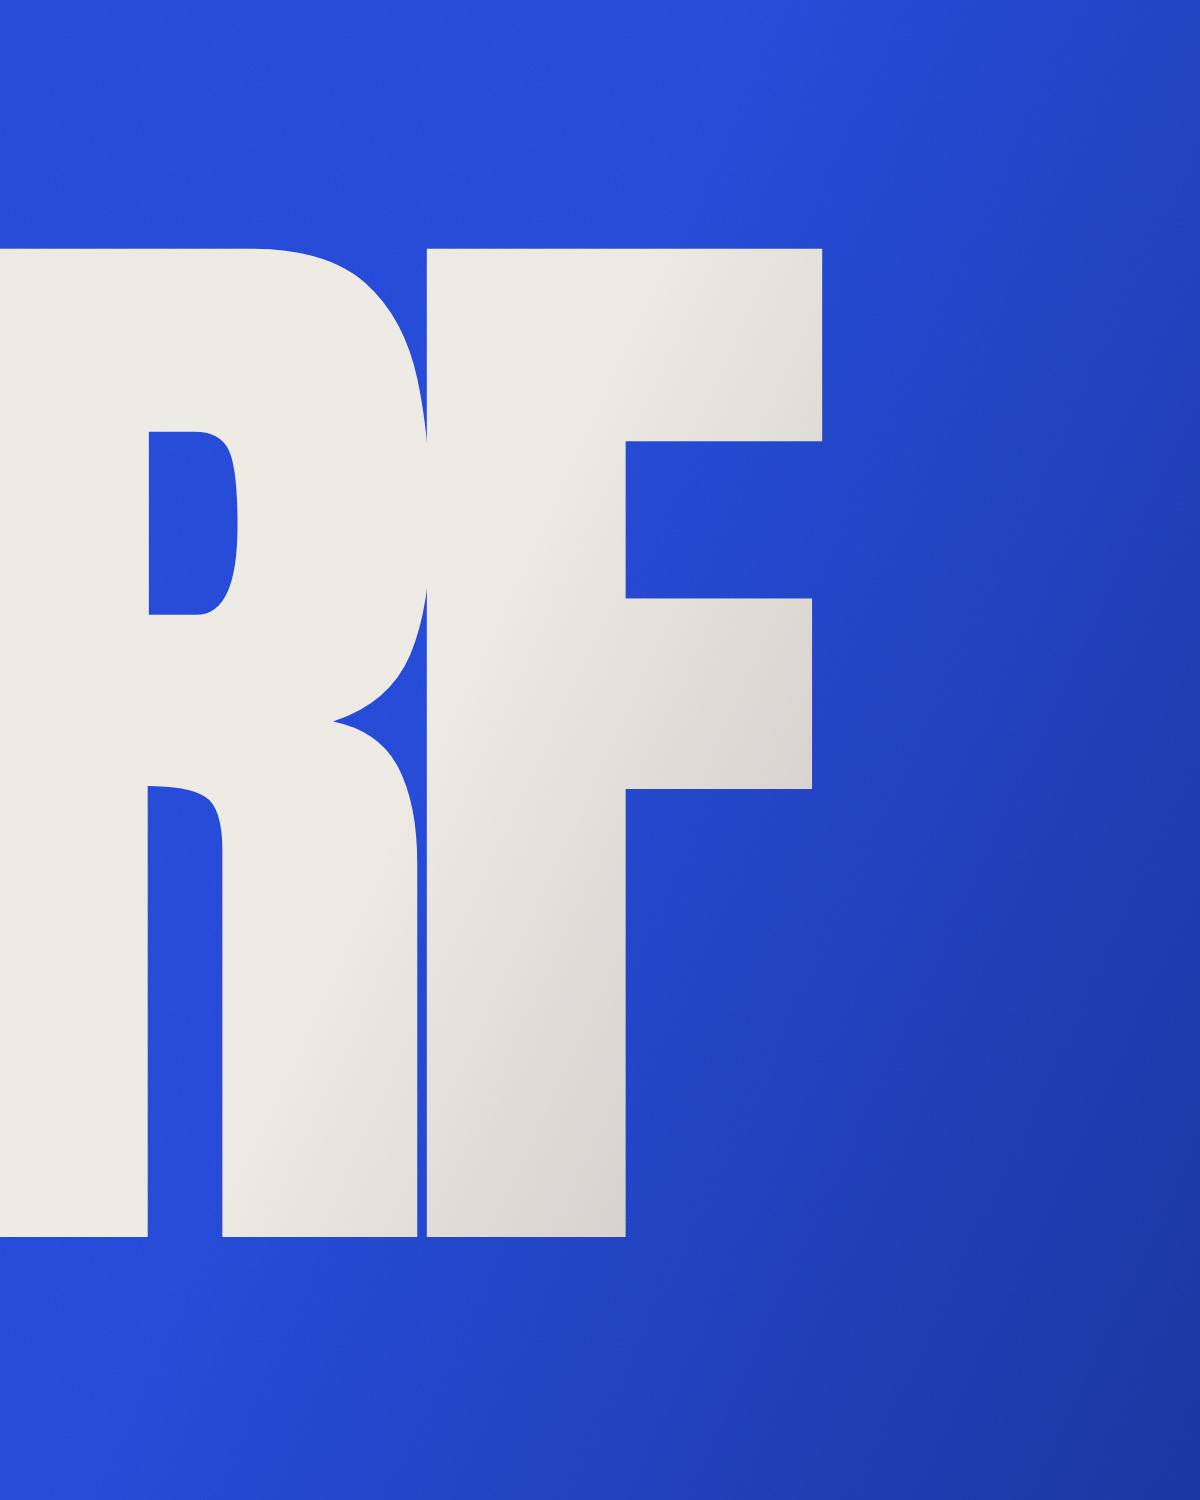
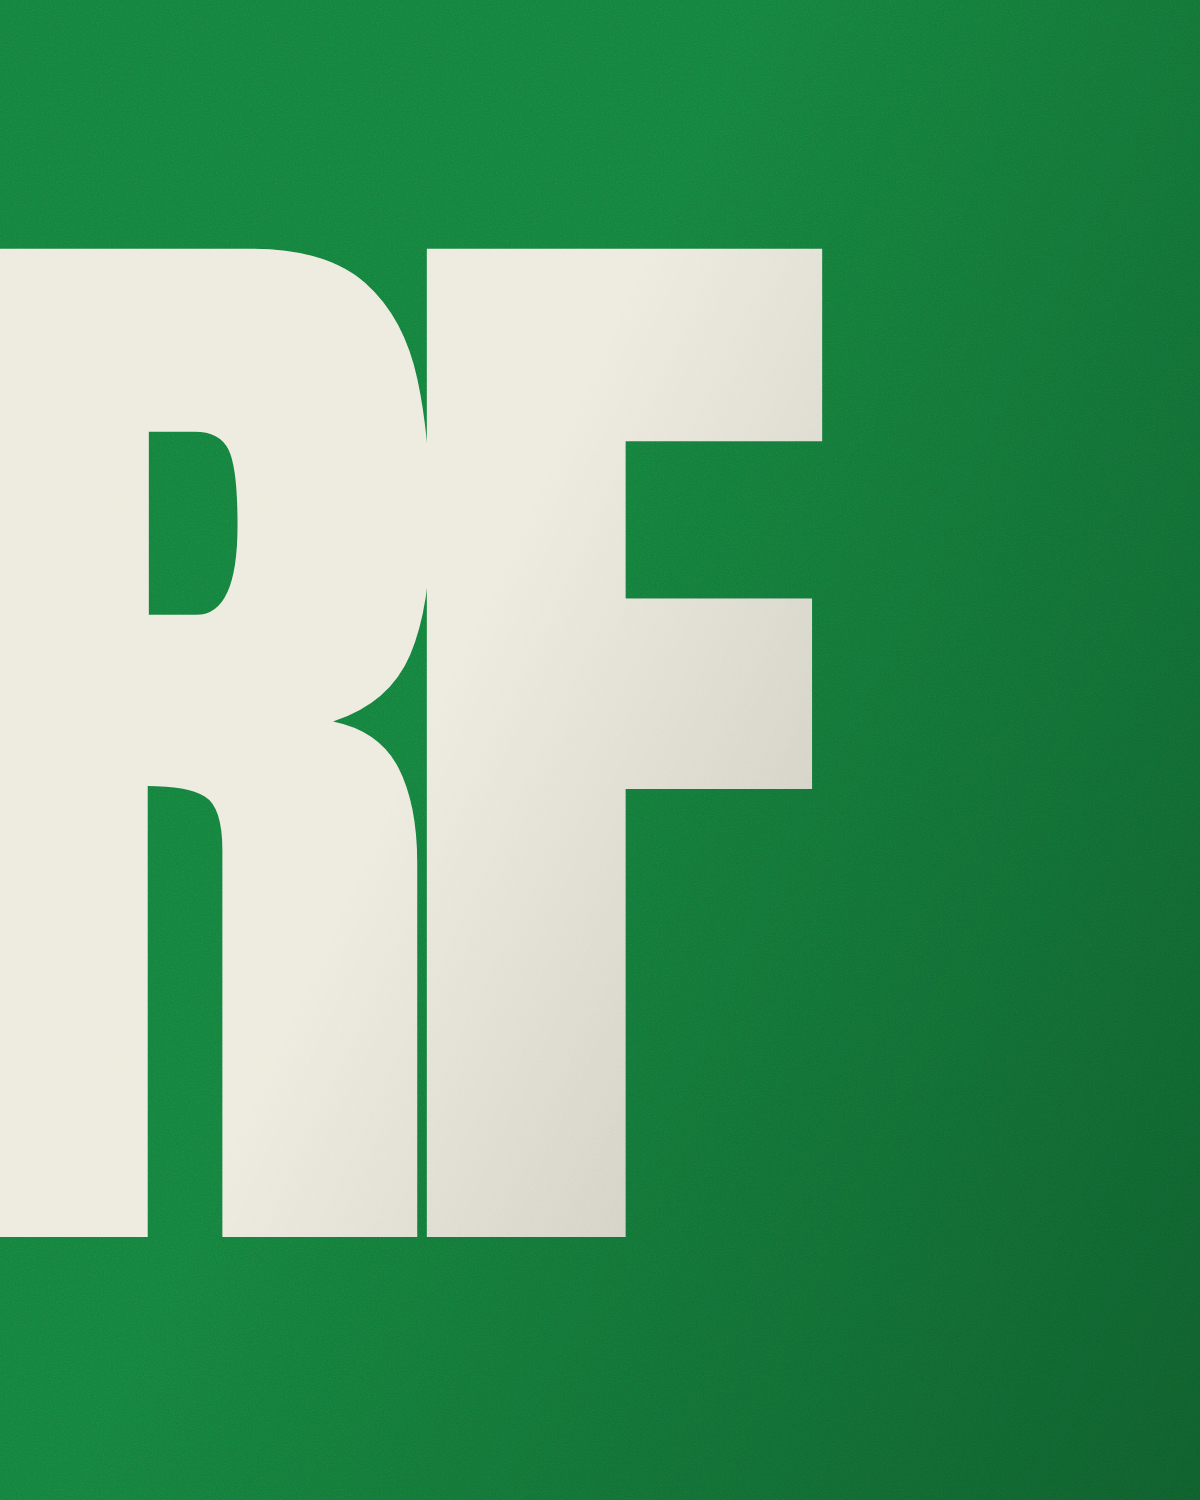
Replace blue with green as the single accent
Green is no longer a second colour beside blue — it is the accent. Blue
arrived from an early reference and never meant anything for this brand;
green says growth, which is what the studio sells. One accent is also a
stronger system than two: with nothing to balance it against, there is no
room for a colour to drift into decoration.

Three values of one hue, since no single green clears AA everywhere:

  --color-green       #15803d  the fill. White on it 5.02:1, and 3.95:1
                               against ink — the CTA now separates from the
                               dark nav capsule better than the blue did,
                               which managed only 2.78:1 there.
  --color-green-lift  #2fbf71  text on ink, 8.31:1.
  --color-green-deep  #0f7a3f  text on cream, 4.72:1.

The fill green is 4.37:1 on cream, just under AA for small text, so it
cannot double as the cream-surface text value — hence three, mirroring the
structure blue already had.

The `growth` utility is gone rather than aliased. It existed to separate
green's job from blue's; with one accent that distinction has nothing left
to express, so every `growth` usage is now `accent` and `surface-blue` is
`surface-accent`.

Regenerated the artwork. scripts/make-art.mjs bakes the accent into the
plate pixels, so the monogram, the dial arc, the poster line and the stack
gradient were all still blue after the token swap — a palette change that
looks complete in the CSS and is not. Noted in CLAUDE.md.
[…]

diff --git a/src/styles/index.css b/src/styles/index.css
@@ -15,27 +15,32 @@
    body copy that survives. That contrast is deliberate — the mark is light
    and geometric, the voice is loud and narrow.
 
-   Cream leads, ink answers, blue punctuates. The page alternates cream and
-   ink full-bleed; blue never owns a section. It appears in small, load-
-   bearing places only — pill arrows, live numbers, markers — which is what
-   keeps it feeling like a decision rather than a theme.
+   Cream leads, ink answers, green punctuates. The page alternates cream and
+   ink full-bleed; green never owns a section. It appears in small, load-
+   bearing places only — pill arrows, the CTA, live numbers, markers — which
+   is what keeps it feeling like a decision rather than a theme.
    ------------------------------------------------------------------ */
 @theme {
   --color-ink: #0a0a0a;
   --color-cream: #f4efe4;
-  --color-blue: #2447d6;
-  --color-blue-deep: #16309b;
-  /* The brand blue is 2.78:1 on ink — it cannot carry text there. This is
-     the same hue lifted until it clears AA on black (5.17:1). Fills stay
-     --color-blue; only blue *text on ink* uses this. */
-  --color-blue-lift: #5a79f5;
+  /* ONE accent, and it is green. Blue used to sit here; it arrived from an
+     early reference and never meant anything for this brand. Green does —
+     this is a growth studio, so the one colour that is not black or cream
+     says growth. There is nothing left to balance it against, which is the
+     point: a single accent cannot drift into decoration.
 
-  /* Growth green. No single green clears AA on both surfaces — the same
-     problem the blue has — so there are two values of one hue: lifted for
-     ink (8.31:1), deep for cream (4.72:1, and white on it is 5.42:1 for
-     fills). Never hardcode either; use `growth`, which resolves per
-     surface. See the two-accent rule in CLAUDE.md — green is not a second
-     decoration, it has its own job. */
+     Three values of one hue, because no single green clears AA everywhere:
+       --color-green       the FILL. White on it is 5.02:1, and it reads
+                           3.95:1 against ink, so a button still separates
+                           from the dark nav capsule (the old blue managed
+                           only 2.78:1 there).
+       --color-green-lift  TEXT ON INK — 8.31:1.
+       --color-green-deep  TEXT ON CREAM — 4.72:1. The fill green is 4.37:1
+                           on cream, which misses AA for small text, so the
+                           two cannot be merged.
+     Never hardcode any of them: `accent` resolves the right one per
+     surface, and `--accent-fill` carries the solid. */
+  --color-green: #15803d;
   --color-green-lift: #2fbf71;
   --color-green-deep: #0f7a3f;
 
@@ -55,8 +60,8 @@
     --fg: var(--color-cream);
     --fg-2: color-mix(in srgb, var(--color-cream) 60%, var(--color-ink));
     --fg-3: color-mix(in srgb, var(--color-cream) 45%, var(--color-ink));
-    --accent: var(--color-blue-lift);
-    --growth: var(--color-green-lift);
+    --accent: var(--color-green-lift);
+    --accent-fill: var(--color-green);
     --bg: var(--color-ink);
     --rule: rgb(244 239 228 / 0.18);
     color-scheme: dark;
@@ -89,12 +94,12 @@
   }
 
   ::selection {
-    background: var(--color-blue);
+    background: var(--color-green);
     color: #fff;
   }
 
   :focus-visible {
-    outline: 2px solid var(--color-blue);
+    outline: 2px solid var(--color-green);
     outline-offset: 3px;
   }
 
@@ -139,7 +144,7 @@
 
    The percentages below are solved, not chosen. `scripts/contrast-check.mjs`
    rasterises the real composite; the minimum alpha to clear 4.5:1 is 0.49
-   on ink, 0.57 on cream and 0.73 on blue, and to clear 3:1 it is 0.37 /
+   on ink, 0.57 on cream and 0.73 on the accent, and to clear 3:1 it is 0.37 /
    0.45 / 0.52. Each tone below sits above its floor with headroom:
 
      --fg     full strength
@@ -153,8 +158,8 @@
   --fg: var(--color-cream);
   --fg-2: color-mix(in srgb, var(--color-cream) 60%, var(--color-ink));
   --fg-3: color-mix(in srgb, var(--color-cream) 45%, var(--color-ink));
-  --accent: var(--color-blue-lift);
-  --growth: var(--color-green-lift);
+  --accent: var(--color-green-lift);
+  --accent-fill: var(--color-green);
   --bg: var(--color-ink);
   --rule: rgb(244 239 228 / 0.18);
   background: var(--bg);
@@ -165,8 +170,8 @@
   --fg: var(--color-ink);
   --fg-2: color-mix(in srgb, var(--color-ink) 66%, var(--color-cream));
   --fg-3: color-mix(in srgb, var(--color-ink) 52%, var(--color-cream));
-  --accent: var(--color-blue);
-  --growth: var(--color-green-deep);
+  --accent: var(--color-green-deep);
+  --accent-fill: var(--color-green);
   --bg: var(--color-cream);
   --rule: rgb(10 10 10 / 0.16);
   background: var(--bg);
@@ -178,21 +183,21 @@
   --fg: var(--color-ink);
   --fg-2: color-mix(in srgb, var(--color-ink) 64%, #ffffff);
   --fg-3: color-mix(in srgb, var(--color-ink) 50%, #ffffff);
-  --accent: var(--color-blue);
-  --growth: var(--color-green-deep);
+  --accent: var(--color-green-deep);
+  --accent-fill: var(--color-green);
   --bg: #ffffff;
   --rule: rgb(10 10 10 / 0.14);
   background: var(--bg);
   color: var(--fg);
 }
 
-@utility surface-blue {
+@utility surface-accent {
   --fg: #ffffff;
-  --fg-2: color-mix(in srgb, #ffffff 82%, var(--color-blue));
-  --fg-3: color-mix(in srgb, #ffffff 62%, var(--color-blue));
+  --fg-2: color-mix(in srgb, #ffffff 82%, var(--color-green));
+  --fg-3: color-mix(in srgb, #ffffff 62%, var(--color-green));
   --accent: #ffffff;
-  --growth: #ffffff;
-  --bg: var(--color-blue);
+  --accent-fill: #ffffff;
+  --bg: var(--color-green);
   --rule: rgb(255 255 255 / 0.28);
   background: var(--bg);
   color: var(--fg);
@@ -296,16 +301,12 @@
   color: var(--fg-3);
 }
 
-/* Blue where blue survives: lifted on ink, brand blue on cream. */
+/* The accent, resolved for whichever surface it lands on: lifted green on
+   ink, deep green on cream. There used to be a second `growth` utility for
+   green while this one was blue; with one accent that split has nothing
+   left to express, so it is gone rather than kept as an alias. */
 @utility accent {
   color: var(--accent);
-}
-
-/* Green marks the yield — measured growth and what the client receives.
-   Blue is the invitation (things you click, the brand); green is what
-   comes back. Two accents, one job each; neither is decoration. */
-@utility growth {
-  color: var(--growth);
 }
 
 /* ------------------------------------------------------------------
@@ -332,7 +333,7 @@
   width: 1.85rem;
   height: 1.85rem;
   border-radius: 999px;
-  background: var(--color-blue);
+  background: var(--accent-fill);
   color: #fff;
   flex: none;
   transition: transform 0.5s var(--ease-out-expo);

diff --git a/src/components/sections/Process.tsx b/src/components/sections/Process.tsx
@@ -20,7 +20,7 @@ export function Process() {
         <ol className="mt-12 grid gap-px sm:grid-cols-2 lg:grid-cols-4">
           {process.steps.map((s, i) => {
             // The last move is Compound — the one that is about growth. Its
-            // index carries the growth colour so the sequence visibly ends
+            // index carries the accent so the sequence visibly ends
             // somewhere, rather than just stopping.
             const isLast = i === process.steps.length - 1;
             return (
@@ -30,7 +30,7 @@ export function Process() {
               delay={i * 80}
               className="border-t pt-6 [border-color:var(--rule)] lg:pr-8"
             >
-              <span className={`label tnum ${isLast ? 'growth' : 'dim'}`}>{s.n}</span>
+              <span className={`label tnum ${isLast ? 'accent' : 'dim'}`}>{s.n}</span>
               <h3 className="display-md mt-8">{s.title}</h3>
               <p className="body-copy dim mt-2">{s.line}</p>
             </Reveal>

diff --git a/src/components/sections/Proof.tsx b/src/components/sections/Proof.tsx
@@ -25,7 +25,7 @@ export function Proof() {
             <ul className="mt-12 grid gap-8 border-y py-9 [border-color:var(--rule)] sm:grid-cols-3">
               {proof.metrics.map((m, i) => (
                 <Reveal as="li" key={m.label} delay={120 + i * 80}>
-                  <p className="display-md tnum growth">{m.value}</p>
+                  <p className="display-md tnum accent">{m.value}</p>
                   <p className="label dim mt-3">{m.label}</p>
                 </Reveal>
               ))}

diff --git a/src/components/sections/Pricing.tsx b/src/components/sections/Pricing.tsx
@@ -42,7 +42,7 @@ export function Pricing() {
                   <li key={inc} className="flex gap-3 text-[0.92rem] leading-snug">
                     <span
                       aria-hidden="true"
-                      className="mt-1.5 h-1 w-1 shrink-0 rounded-full [background:var(--growth)]"
+                      className="mt-1.5 h-1 w-1 shrink-0 rounded-full [background:var(--accent-fill)]"
                     />
                     {inc}
                   </li>

diff --git a/src/components/layout/Nav.tsx b/src/components/layout/Nav.tsx
@@ -52,7 +52,7 @@ export function Nav() {
             <a
               href={contact.cta.href}
               className="rounded-full px-4 py-2 text-[0.78rem] text-white transition-colors duration-300"
-              style={{ background: 'var(--color-blue)' }}
+              style={{ background: 'var(--color-green)' }}
             >
               {contact.cta.label}
             </a>

diff --git a/src/components/sections/About.tsx b/src/components/sections/About.tsx
@@ -3,7 +3,7 @@ import { Pill } from '../ui/Pill';
 import { Reveal } from '../ui/Reveal';
 
 /**
- * The blue block. Statement type where the opening clause is solid and the
+ * Statement type where the opening clause is solid and the
  * rest steps back, then three cards where the reference puts its stats —
  * ours carry the spine of the offer instead of numbers we do not have.
  */

diff --git a/src/components/sections/Contact.tsx b/src/components/sections/Contact.tsx
@@ -38,7 +38,7 @@ export function Contact() {
                 {item}
                 <span
                   aria-hidden="true"
-                  className="h-1.5 w-1.5 rounded-full [background:var(--accent)]"
+                  className="h-1.5 w-1.5 rounded-full [background:var(--accent-fill)]"
                 />
               </span>
             ))}

diff --git a/CLAUDE.md b/CLAUDE.md
@@ -13,23 +13,25 @@ Read this before changing anything. It loads automatically each session.
    alternatives.
 2. **All copy lives in `src/content/site.ts`.** Components read from it and
    never hardcode text. Change the site by changing that file.
-3. **Two accents, one job each, never decorative.** Cream leads, ink
-   answers; blue and green punctuate. Neither owns a section.
-   - **Blue = the invitation** — things you click and the brand itself: pill
-     arrows, the nav CTA, the "Most common" badge, the audience eyebrow.
-     Use via `accent`.
-   - **Green = the yield** — measured growth and what the client receives:
-     the Overdrive figures, the pricing includes-markers, the final Compound
-     step. Use via `growth`.
-   Adding a colour because something looks bare is what this rule exists to
-   stop. If a new mark does not clearly belong to one of those two jobs, it
-   should be `--fg`/`dim` instead.
-   **Every accent has two values, because no single one clears AA on both
-   surfaces.** `--color-blue` (#2447d6) is 2.78:1 on ink and must never carry
-   text there; `--color-blue-lift` (#5a79f5) is the lifted twin. Likewise
-   `--color-green-deep` (#0f7a3f) for cream and `--color-green-lift`
-   (#2fbf71) for ink. Never hardcode any of the four — `accent` and `growth`
-   resolve per surface.
+3. **One accent, and it is green.** Cream leads, ink answers, green
+   punctuates. Green never owns a section — it appears in small load-bearing
+   places only: the CTA, pill arrows, live figures, markers, the final
+   Compound step. Blue used to sit here; it came from an early reference and
+   never meant anything for this brand, whereas green says growth, which is
+   what the studio sells. Adding a *second* accent is what this rule exists
+   to stop — if a mark needs emphasis and is not one of the above, it should
+   be `--fg`/`dim`.
+   **Three values of one hue**, because no single green clears AA
+   everywhere. Never hardcode any of them; `accent` resolves text per
+   surface and `--accent-fill` carries the solid:
+   - `--color-green` (#15803d) — FILL. White on it 5.02:1; 3.95:1 against
+     ink, so a button still separates from the dark nav capsule.
+   - `--color-green-lift` (#2fbf71) — TEXT ON INK, 8.31:1.
+   - `--color-green-deep` (#0f7a3f) — TEXT ON CREAM, 4.72:1. The fill green
+     is 4.37:1 on cream and misses AA for small text, so these cannot merge.
+   `scripts/make-art.mjs` bakes the accent into the generated plates — if
+   the palette changes, re-run it or the artwork silently keeps the old
+   colour.
 4. **Never dim text with `opacity-*`. Use the tone scale.** Three tones, set by
    the surface utility: `--fg` full, `dim` (`--fg-2`) safe at any size, `ghost`
    (`--fg-3`) for display type ≥24px only. The percentages are solved against
